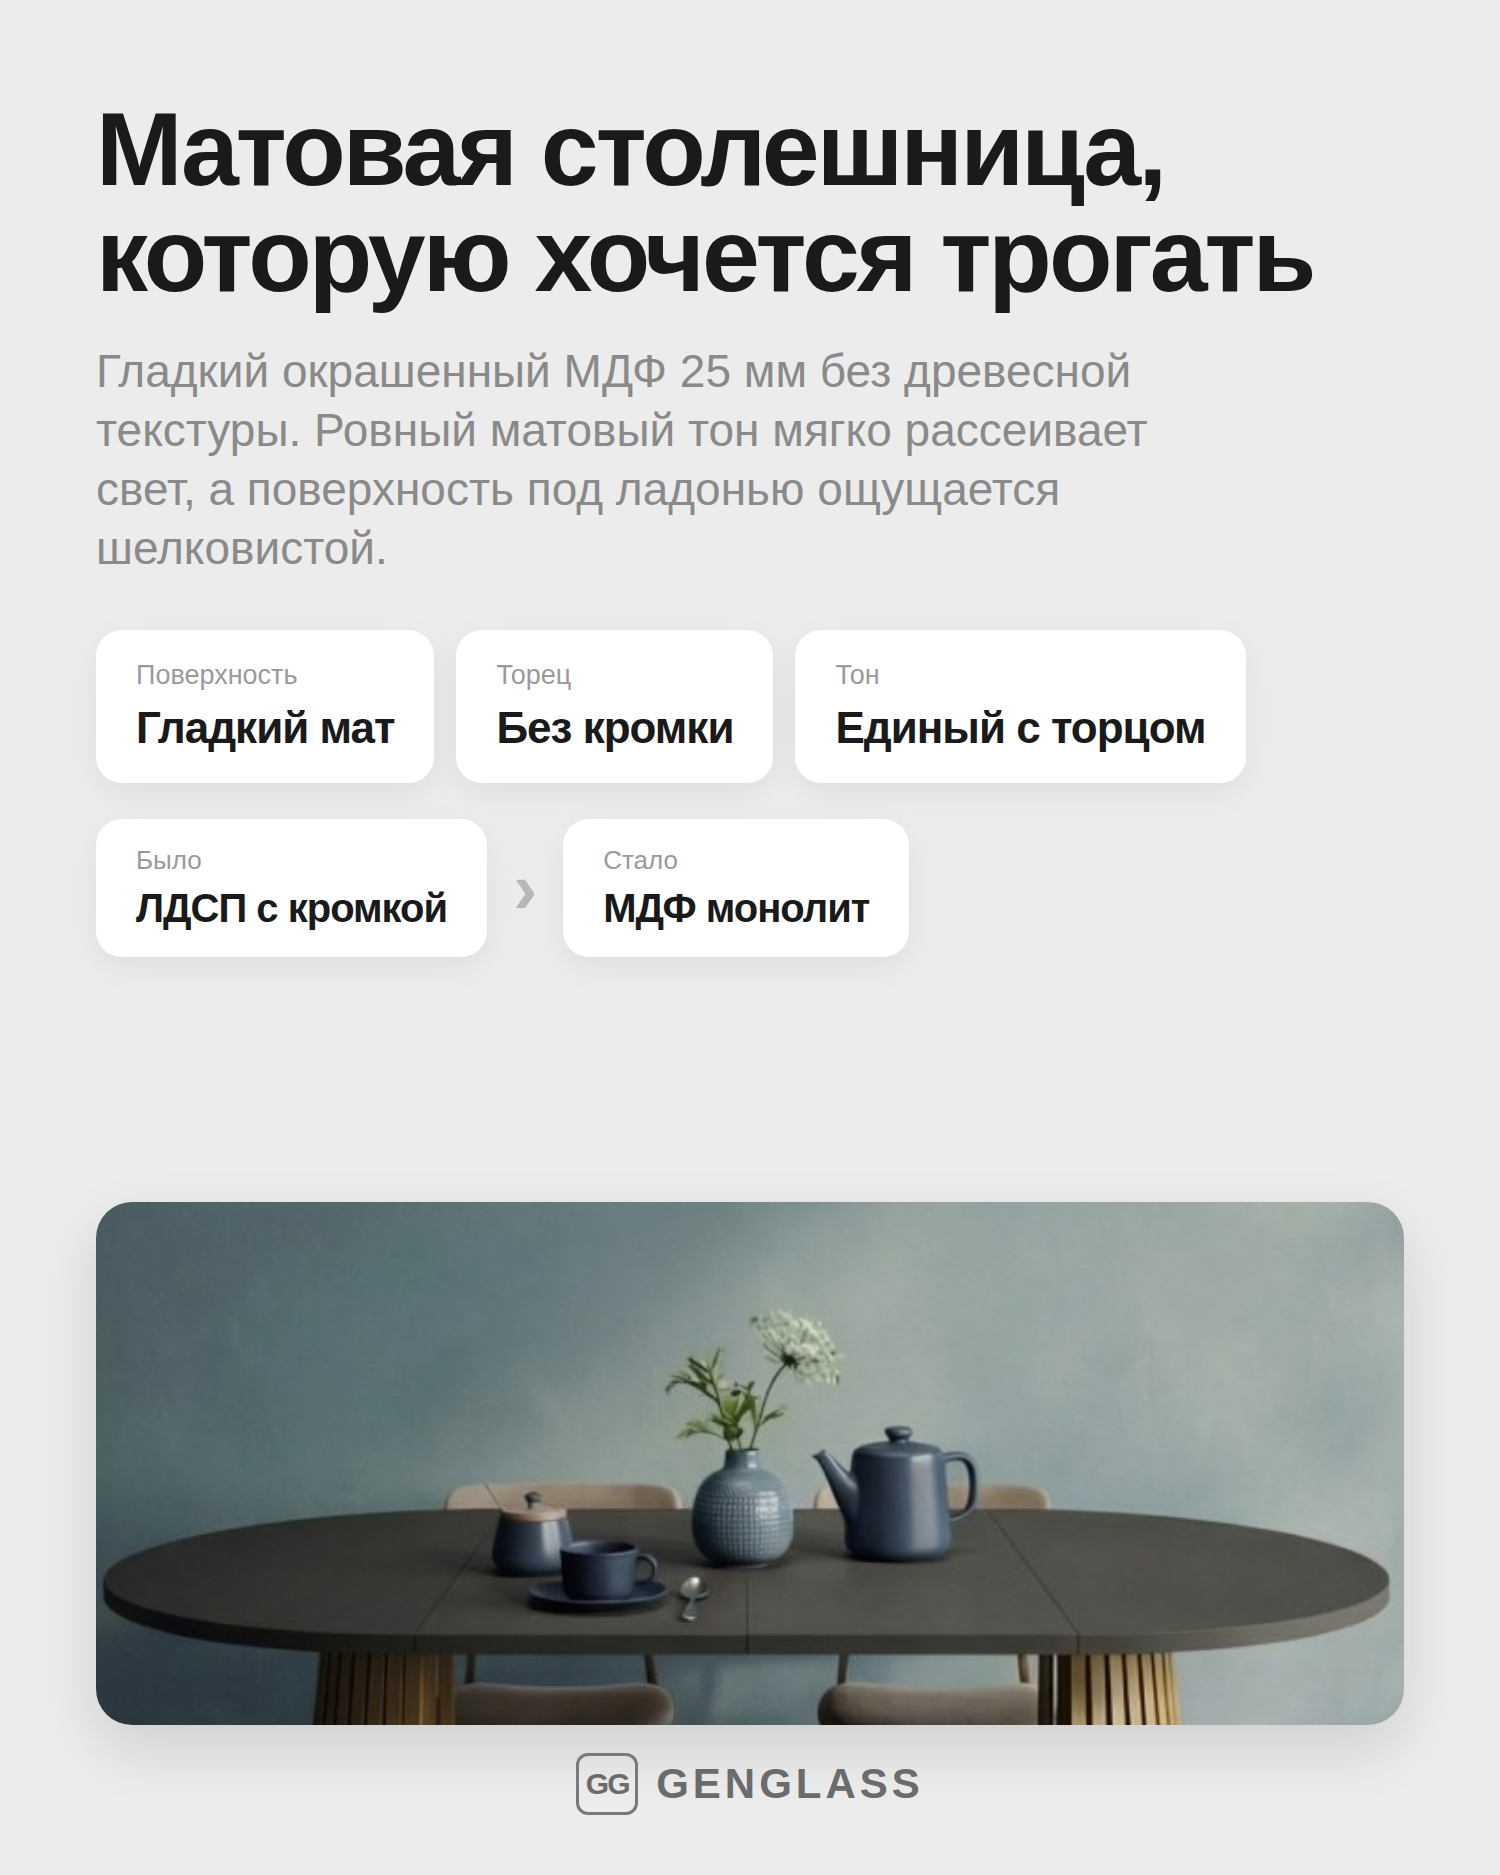
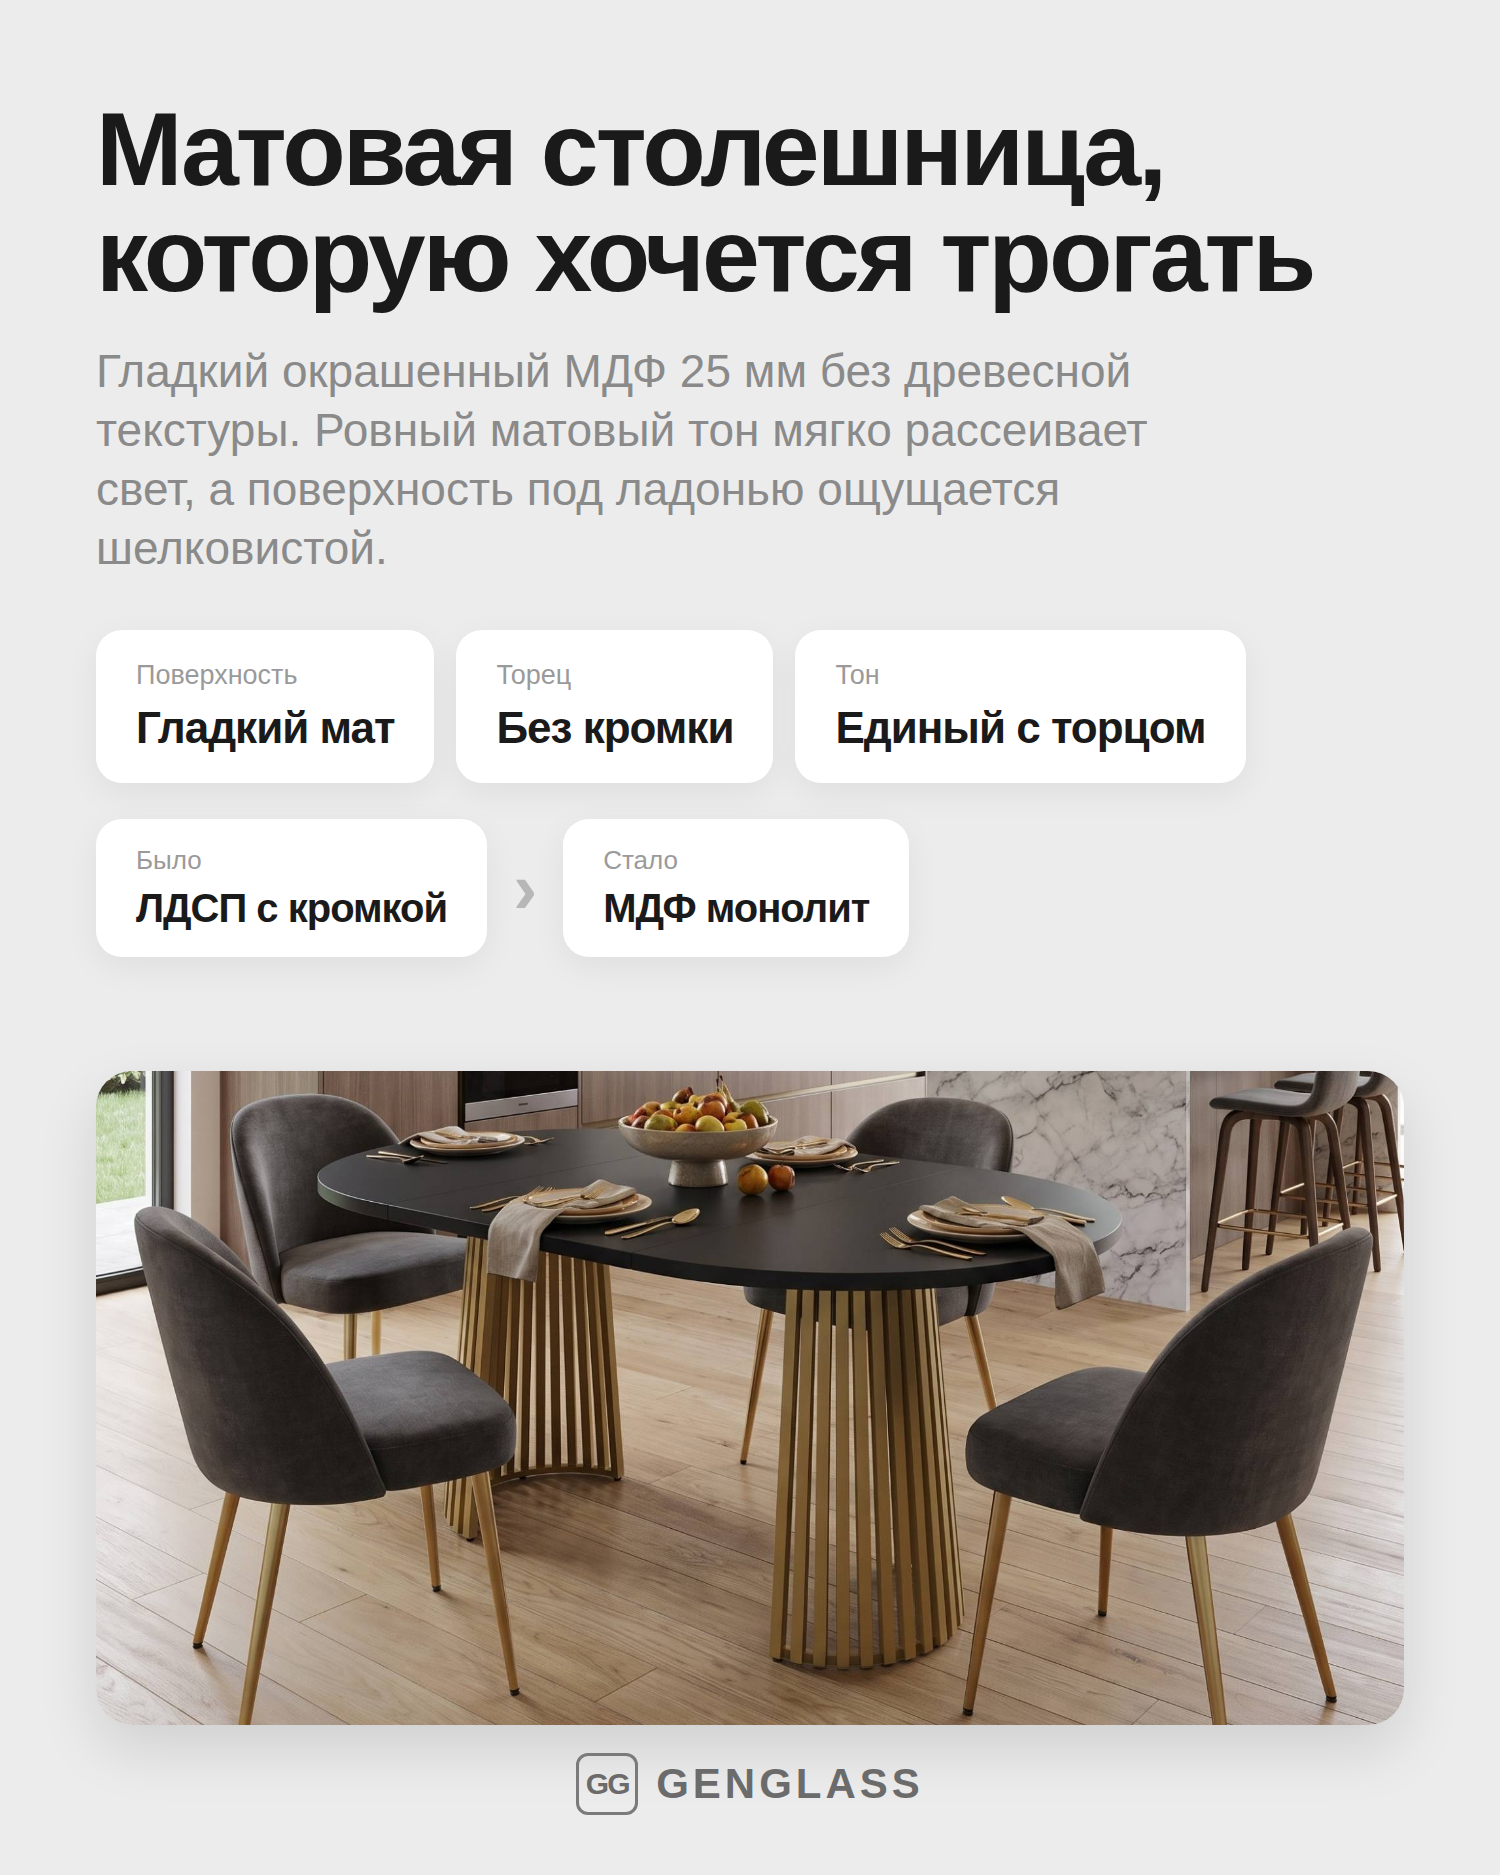
KONUX MDF cards: use provided interior renders
Swapped photo blocks to the newly provided renders:
- Card A: gold-accent dark kitchen scene (2:1 crop focused on the table)
- Card B: light white kitchen scene (2:1 crop)
Also stored provided studio renders (front/round webp) in img/ for
future variants. Fixed photo/chip overlap by wide-cropping to 2000x1000.

Claude-Session: https://claude.ai/code/session_0138UNtjXMgct5sLFrQvKXsM

Changed region(s): [[0.0613, 0.5568, 0.9507, 0.928]]

diff --git a/konux-infographic/mockup-B.html b/konux-infographic/mockup-B.html
@@ -39,7 +39,7 @@
   </div>
 
   <div class="hero">
-    <img src="img/table-lifestyle.jpeg" alt="Обеденный стол KONUX с монолитной столешницей МДФ в интерьере">
+    <img src="img/interior-white-wide.jpg" alt="Обеденный стол KONUX с монолитной столешницей МДФ в интерьере">
   </div>
 
   <div class="logo">

diff --git a/konux-infographic/mockup-A.html b/konux-infographic/mockup-A.html
@@ -33,7 +33,7 @@
   </div>
 
   <div class="hero">
-    <img src="img/interior-close.jpeg" alt="Столешница KONUX из монолитного МДФ в интерьере">
+    <img src="img/interior-gold-wide.jpg" alt="Столешница KONUX из монолитного МДФ в интерьере">
   </div>
 
   <div class="logo">
